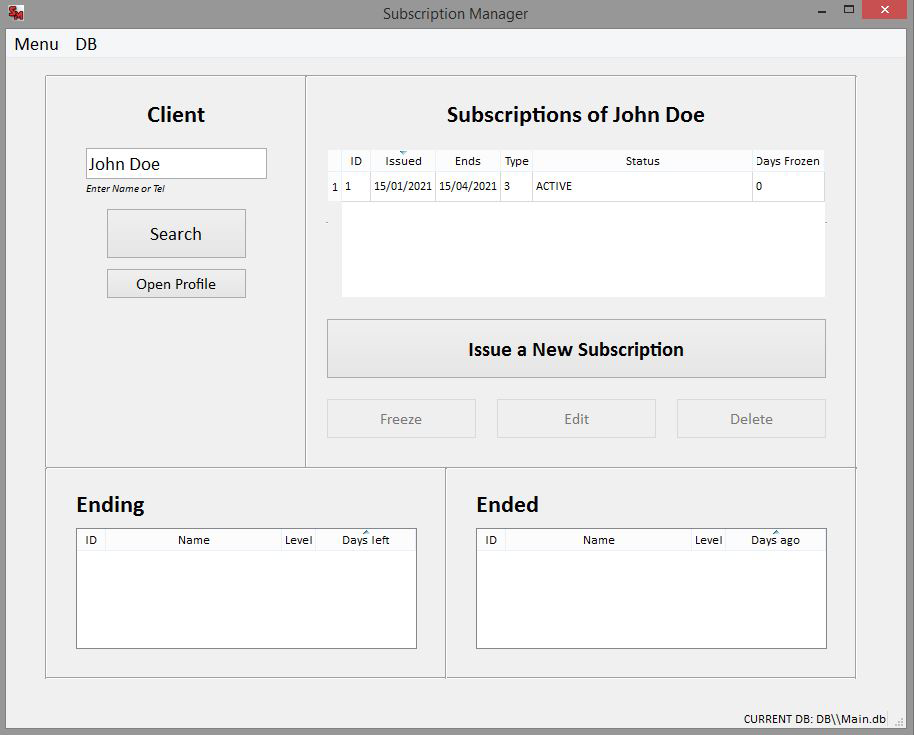
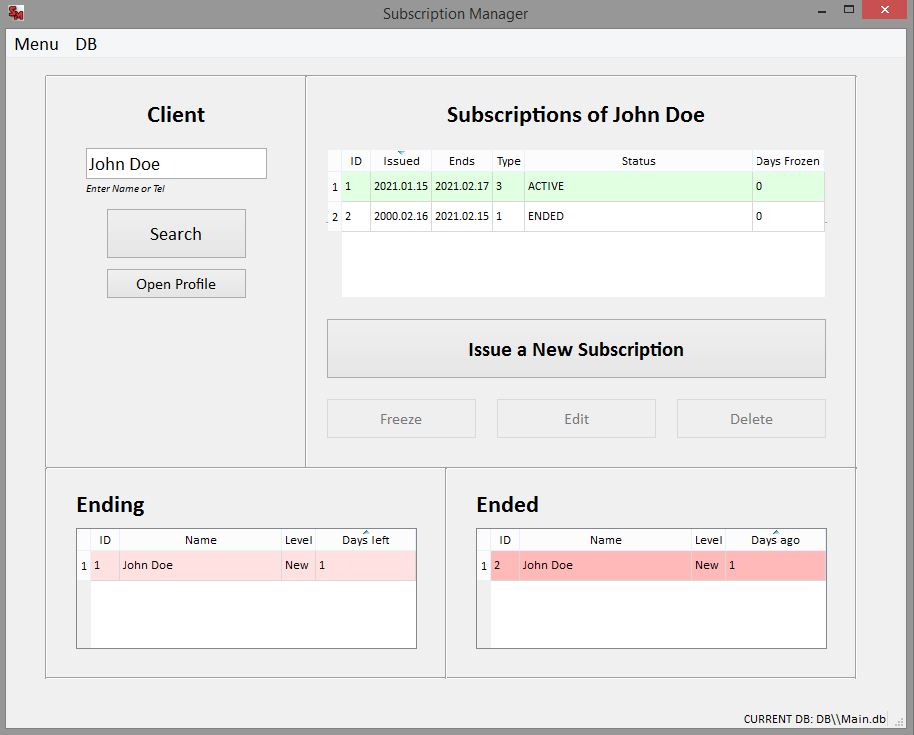
Added coloring and improved logging & date formatting

Changed region(s): [[0.3676, 0.2095, 0.919, 0.2993], [0.5208, 0.7184, 0.919, 0.8082], [0.0919, 0.7184, 0.4595, 0.8082]]

diff --git a/Subscription_Manager.py b/Subscription_Manager.py
@@ -1,6 +1,6 @@
 from datetime import date, datetime
 from PyQt5 import uic, QtWidgets, QtCore
-from PyQt5.QtGui import QIcon
+from PyQt5.QtGui import QIcon, QColor
 from PyQt5.QtWidgets import QApplication, QMainWindow, QTableWidgetItem, QMessageBox, QHeaderView
 from PyQt5.QtWidgets import QAbstractItemView, QStatusBar, QLabel, QFileDialog
 import classes
@@ -49,9 +49,6 @@ class MainWindow(QMainWindow):
         self.status_label.setText(f'CURRENT DB: {db.DB_PATH}')
         self.setStatusBar(self.status_bar)
         self.status_bar.addPermanentWidget(self.status_label)
-
-        # Establish the log file
-        logging.basicConfig(filename='History.log', encoding='utf-8', level=logging.INFO, format='%(asctime)s %(message)s')
 
         # Fill the tables with recently ended/ending subscriptions
         self.show_recent()
@@ -379,11 +376,11 @@ class MainWindow(QMainWindow):
             row_count = cursor.execute("SELECT COUNT(*) FROM subscriptions").fetchone()[0]
             subs_window.table_widget.setRowCount(row_count)
 
-            cursor.execute('SELECT sub_ID,date_issued,date_ends,sub_type,status,days_frozen FROM subscriptions')
+            cursor.execute('SELECT sub_ID,holder,date_issued,date_ends,sub_type,status,days_frozen FROM subscriptions')
             for row, form in enumerate(cursor.fetchall()):
                 for column, item in enumerate(form):
                     # In order for QTableWidget to sort dates, they need to be passed in a special format
-                    if column == 1 or column == 2:
+                    if column == 2 or column == 3:
                         tw_item = QTableWidgetItem()
                         tw_item.setData(0, QtCore.QDate.fromString(item, 'dd/MM/yyyy'))
                         subs_window.table_widget.setItem(row, column, tw_item)
@@ -630,6 +627,7 @@ class MainWindow(QMainWindow):
                     self.table_widget1.setRowCount(row_count)
 
                     # Fill the table_widget1 with data
+                    active_rows = []
                     cursor.execute("SELECT sub_ID,date_issued,date_ends,sub_type,status,days_frozen FROM subscriptions WHERE holder = (?)", (client_entered_ID,))
                     for row, form in enumerate(cursor.fetchall()):
                         # In order for QTableWidget to sort dates correctly, they need to be passed in a special format
@@ -640,6 +638,13 @@ class MainWindow(QMainWindow):
                                 self.table_widget1.setItem(row, column, tw_item)
                             else:
                                 self.table_widget1.setItem(row, column, QTableWidgetItem(str(item)))
+                                if item == 'ACTIVE':
+                                    active_rows.append(row)
+
+                    # Color the active subscriptions
+                    for row in active_rows:
+                        for column in range(self.table_widget1.columnCount()):
+                            self.table_widget1.item(row, column).setBackground(QColor(0,255,0,30))
 
                     # Sort the table_widget1 by the descending date_issued
                     self.table_widget1.setSortingEnabled(True)
@@ -684,7 +689,7 @@ class MainWindow(QMainWindow):
             if add_sub_dialog.radio1.isChecked():
                 new_sub = classes.Subscription(id, sub_type=sub_type_combo_box)
             else:
-                current_date = add_sub_dialog.date_edit.date().toString(format = 4)
+                current_date = add_sub_dialog.date_edit.date().toString('dd/MM/yyyy')
                 new_sub = classes.Subscription(id, date_issued=current_date, sub_type=sub_type_combo_box)
             
             try:        
@@ -798,7 +803,7 @@ class MainWindow(QMainWindow):
                     with conn:
                         new_date_ends = edit_sub_dialog.date_edit2.text()
                         cursor.execute('UPDATE subscriptions SET date_ends = (?) WHERE sub_ID = (?)',(new_date_ends,current_sub_id))
-                        logging.info(f'EDITED End date. Client {edit_sub_dialog.label1.text()}. Sub ID: {current_sub_id}. Old date: {current_date_ends.toString(format = 4)}. New date: {new_date_ends}.')
+                        logging.info(f"EDITED End date. Client {edit_sub_dialog.label1.text()}. Sub ID: {current_sub_id}. Old date: {current_date_ends.toString('dd/MM/yyyy')}. New date: {new_date_ends}.")
 
                 if int(edit_sub_dialog.combo_box1.currentText()) != current_type:
                     # Connect to the database and update the information
@@ -973,6 +978,9 @@ class MainWindow(QMainWindow):
                         self.table_widget2.setItem(current_row, 1, QTableWidgetItem(str(current_name_level[0])))
                         self.table_widget2.setItem(current_row, 2, QTableWidgetItem(str(current_name_level[1])))
                         self.table_widget2.setItem(current_row, 3, tw_item)
+                        for column in range(self.table_widget2.columnCount()):
+                            self.table_widget2.item(current_row, column).setBackground(QColor(255,0,0,30))
+
                         current_row += 1
 
                 # Collect all of the ended subscriptions
@@ -994,6 +1002,8 @@ class MainWindow(QMainWindow):
                         self.table_widget3.setItem(current_row, 1, QTableWidgetItem(str(current_name_level[0])))
                         self.table_widget3.setItem(current_row, 2, QTableWidgetItem(str(current_name_level[1])))
                         self.table_widget3.setItem(current_row, 3, tw_item)
+                        for column in range(self.table_widget3.columnCount()):
+                            self.table_widget3.item(current_row, column).setBackground(QColor(255,0,0,70))
                         current_row += 1
 
             # Sort the tables by the names
@@ -1008,11 +1018,17 @@ class MainWindow(QMainWindow):
 
 
 if __name__ == "__main__":
-    # Update the subscription statuses
-    db.update_sub_status()
-    # Launch the main application window
-    app = QApplication(sys.argv)
-    main_window = MainWindow()
-    main_window.show()
-    sys.exit(app.exec())
 
+    # Establish the log file
+    logging.basicConfig(filename='Log.log', level=logging.INFO, encoding='utf-8', format='%(asctime)s %(message)s', datefmt='%d/%m/%Y %H:%M:%S')
+
+    try:
+        # Update the subscription statuses
+        db.update_sub_status()
+        # Launch the main application window
+        app = QApplication(sys.argv)
+        main_window = MainWindow()
+        main_window.show()
+        sys.exit(app.exec())
+    except Exception as ex:
+        logging.critical(f'App launch error:\n {ex}\n', exc_info=True)

diff --git a/classes.py b/classes.py
@@ -1,3 +1,4 @@
+import re
 from datetime import date, datetime
 from dateutil.relativedelta import relativedelta
 
@@ -15,14 +16,16 @@ class Subscription:
 
     def __init__(self, holder, date_issued = date.today().strftime('%d/%m/%Y'), date_ends = date.today(), sub_type = 1, status = 'ACTIVE', days_frozen = 0):
         self.holder = holder
-        self.date_issued = date_issued
         self.sub_type = sub_type
         self.status = status
         self.days_frozen = days_frozen
+
+        # Ensure a uniform format for the entered date (dd/MM/yyyy) using a regular expression
+        uniform_date_issued = re.sub('[-.:]', '/', date_issued)
+        self.date_issued = uniform_date_issued
 
         # Calculate the subscription's end date based on its type
         date_issued_obj = datetime.strptime(self.date_issued, '%d/%m/%Y')
         date_ends = date_issued_obj + relativedelta(months=+sub_type)
         self.date_ends = date_ends.strftime('%d/%m/%Y')
 
-        
